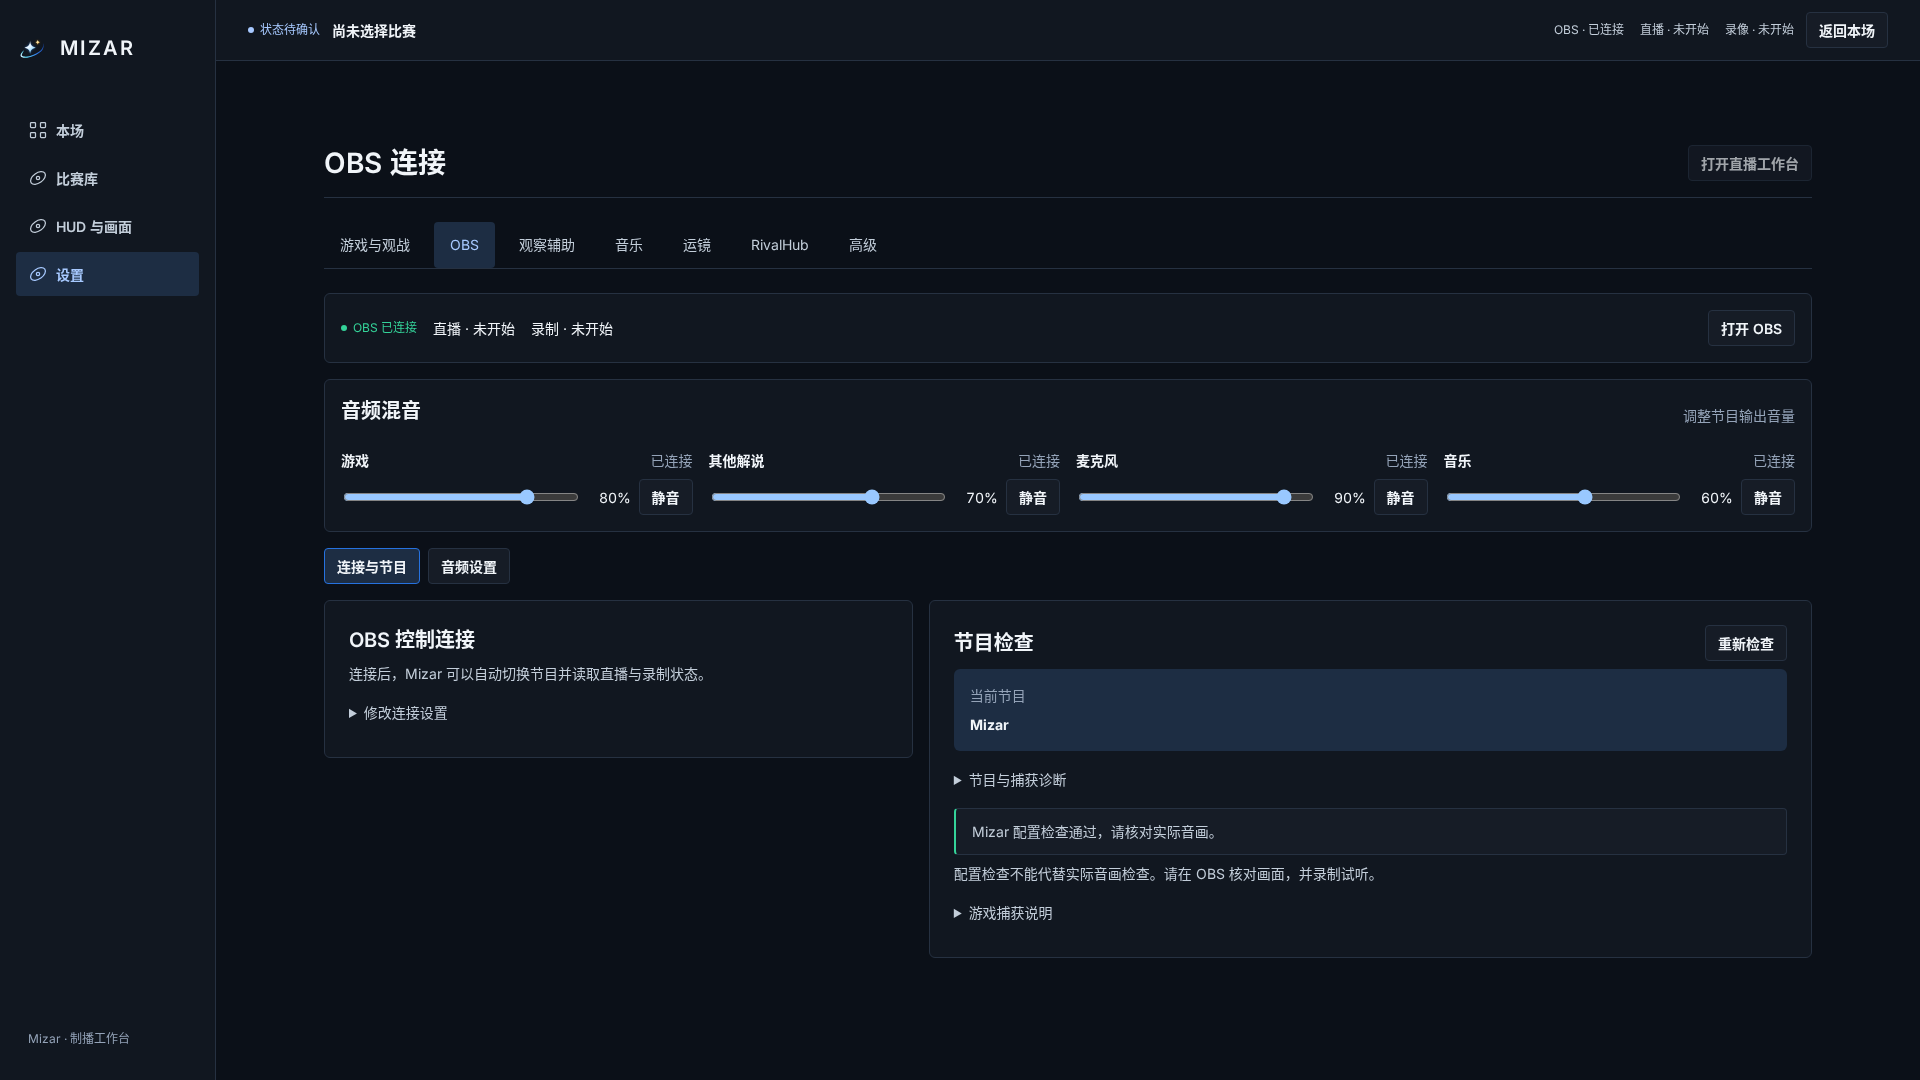
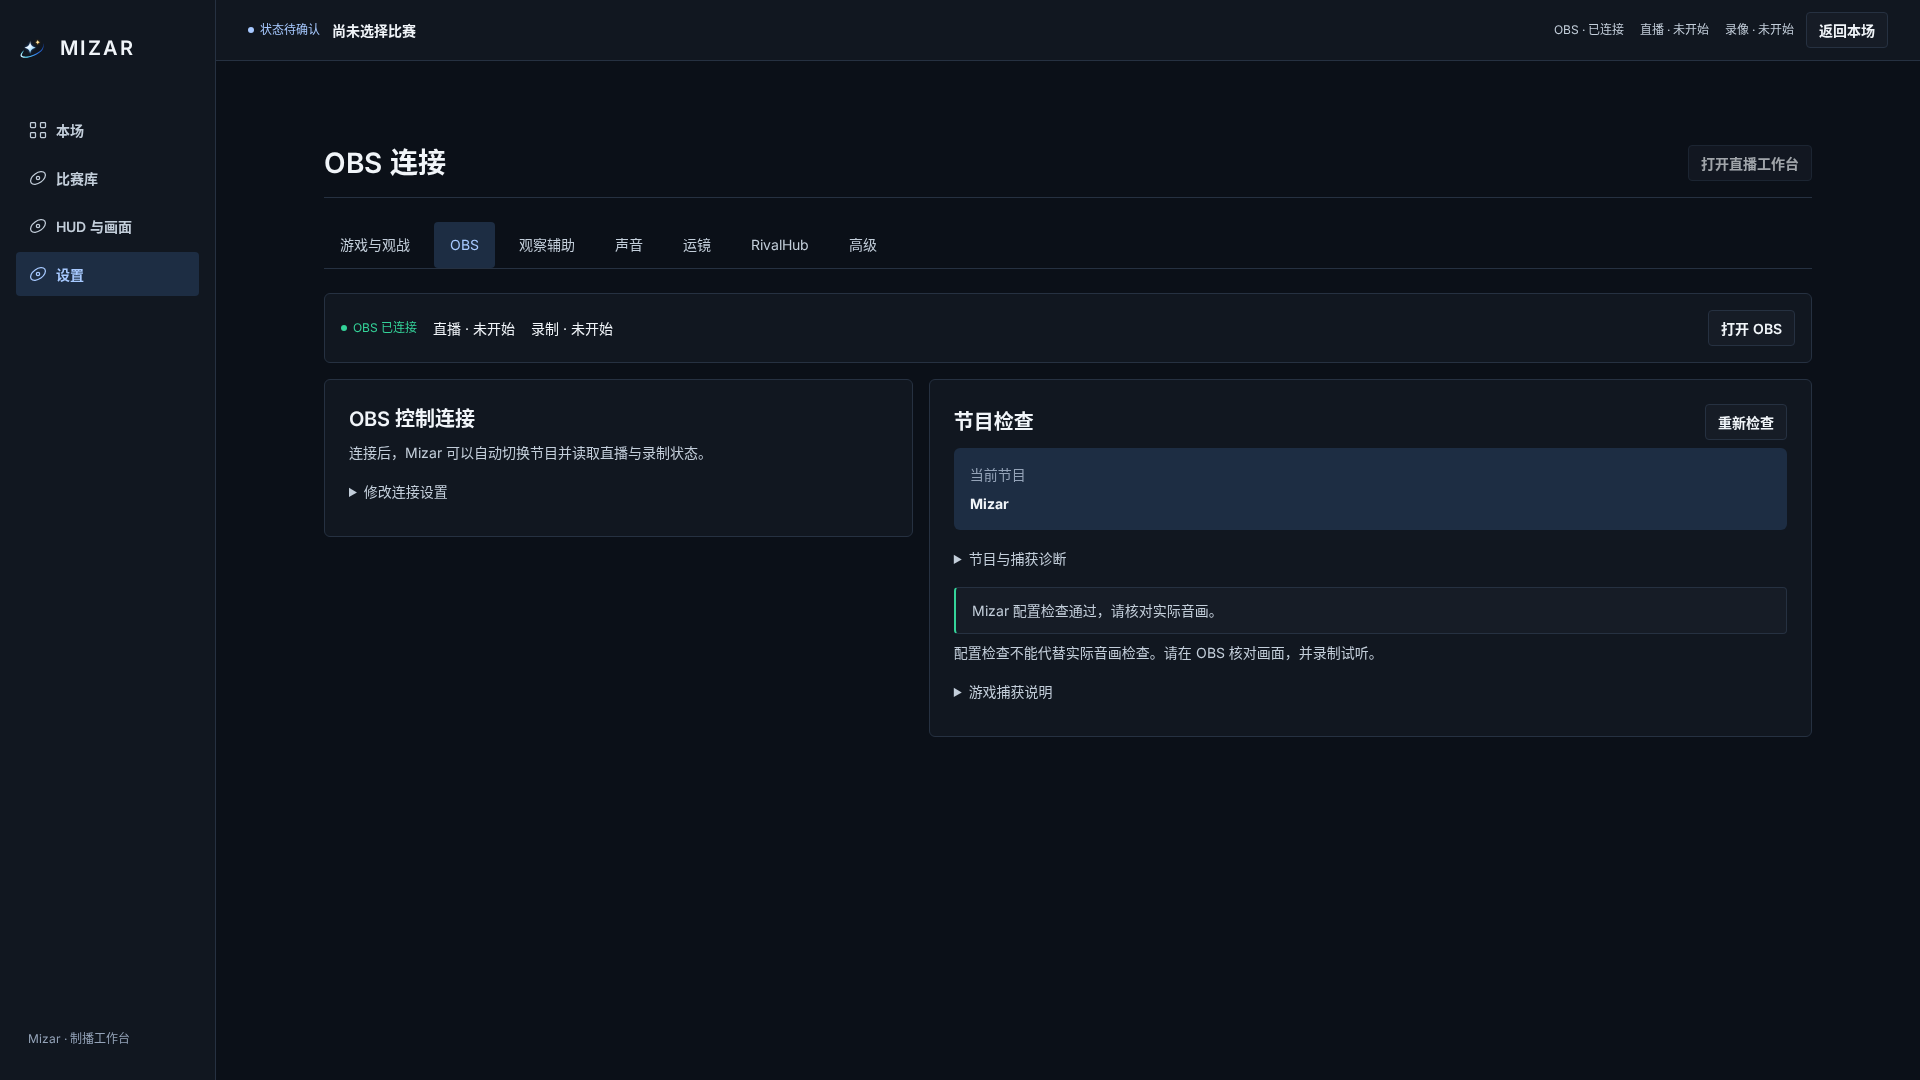
feat: 将混音与音频设置统一到声音页

diff --git a/apps/web/src/preparation/ObsSettings.tsx b/apps/web/src/preparation/ObsSettings.tsx
@@ -1,6 +1,3 @@
-import { Mixer } from '../audio/Mixer';
-import { ObsGameAudioPolicy } from './ObsGameAudioPolicy';
-import { ObsAudioRouting } from './ObsAudioRouting';
 import { prepareObs, useObsPreparation } from '../workspace/obs-preparation';
 import { useEffect, useRef, useState } from 'react';
 import type { ProgramSceneState } from '@mizar/protocol/program-scenes';
@@ -40,7 +37,6 @@ export function ObsSettings() {
   const [password, setPassword] = useState('');
   const [message, setMessage] = useState('');
   const [busy, setBusy] = useState(false);
-  const [section, setSection] = useState<'connection' | 'audio'>('connection');
   const [failed, setFailed] = useState(false);
   const configuration = useRef<ReturnType<typeof beginObsConfiguration> | null>(null);
   const latestConfiguration = useRef<ReturnType<typeof beginObsConfiguration> | null>(null);
@@ -94,20 +90,6 @@ export function ObsSettings() {
 
   const preparation = useObsPreparation();
   const preparing = preparation.phase === 'running';
-  const audioFindings =
-    obs?.findings.filter(
-      (item) => item.code.startsWith('audio_') || item.code === 'game_audio_missing',
-    ) ?? [];
-  const audioUnchecked = obs?.findings.some((item) =>
-    [
-      'collection_missing',
-      'collection_inactive',
-      'scene_missing',
-      'configuration_unchecked',
-      'configuration_check_failed',
-      'source_kind_conflict',
-    ].includes(item.code),
-  );
   const connected = obs?.connection === 'connected';
   const outputActive = connected && (obs.streaming || obs.recording);
   async function action(run: () => Promise<unknown>) {
@@ -174,16 +156,7 @@ export function ObsSettings() {
       {connected && outputActive && obs.findings.length > 0 ? (
         <StatusBanner tone="info">正在直播或录制，自动配置暂缓；停止输出后继续处理。</StatusBanner>
       ) : null}
-      <Mixer />
-      <nav className="obs-settings-tabs" aria-label="OBS 设置分区">
-        <Button aria-pressed={section === 'connection'} onClick={() => setSection('connection')}>
-          连接与节目
-        </Button>
-        <Button aria-pressed={section === 'audio'} onClick={() => setSection('audio')}>
-          音频设置
-        </Button>
-      </nav>
-      <div className="obs-settings-columns" hidden={section !== 'connection'}>
+      <div className="obs-settings-columns">
         <div className="obs-settings-column">
           <Panel className="settings-card">
             <h2>OBS 控制连接</h2>
@@ -439,54 +412,6 @@ export function ObsSettings() {
               若游戏捕获黑屏，检查 Steam 启动选项 -allow_third_party_software 。由 Mizar
               启动时已临时添加该选项；它可能影响信任系数。
             </p>
-          </details>
-        </Panel>
-      </div>
-      <div hidden={section !== 'audio'}>
-        <Panel className="settings-card">
-          <h2>音频配置</h2>
-          <ObsAudioRouting />
-          <ObsGameAudioPolicy />
-          <p>缺少来源时自动添加默认桌面音频与麦克风；已有音频来源会保留并检查。</p>
-          {!connected ? (
-            <p>连接后自动检查音频。</p>
-          ) : preparing ? (
-            <p>正在自动准备，请稍候。</p>
-          ) : audioUnchecked ? (
-            <p>等待场景准备完成后检查音频。</p>
-          ) : audioFindings.length ? (
-            audioFindings.map((finding) => (
-              <StatusBanner key={finding.code} tone="warning">
-                {finding.message}
-              </StatusBanner>
-            ))
-          ) : (
-            <p>音频配置检查通过。请在 OBS 核对实际设备、电平和输出音轨，并录制试听。</p>
-          )}
-          <details key={String(audioFindings.length > 0)} open={audioFindings.length > 0}>
-            <summary>{audioFindings.length ? '处理音频问题' : '音频维护'}</summary>
-            {outputActive ? <p>正在直播或录制，请停止输出后再添加来源。</p> : null}
-            <Button
-              disabled={
-                busy ||
-                preparing ||
-                obs?.connection !== 'connected' ||
-                obs.streaming ||
-                obs.recording
-              }
-              onClick={() =>
-                void action(async () => {
-                  await prepareObs();
-                  setMessage('已重新处理自动配置，请核对音频检查结果。');
-                })
-              }
-            >
-              重试音频自动配置
-            </Button>
-            <small>
-              已有自定义或游戏捕获音频时，不重复添加默认采集；请在 OBS
-              中处理具体设备、静音和音轨问题。
-            </small>
           </details>
         </Panel>
       </div>

diff --git a/apps/web/src/audio/SoundSettings.tsx b/apps/web/src/audio/SoundSettings.tsx
@@ -1,0 +1,108 @@
+import { useState } from 'react';
+import { MusicSettings } from '../music/MusicSettings';
+import { ObsAudioRouting } from '../preparation/ObsAudioRouting';
+import { ObsGameAudioPolicy } from '../preparation/ObsGameAudioPolicy';
+import { useObsPreparation, prepareObs } from '../workspace/obs-preparation';
+import { useObsStatus } from '../workspace/obs-client';
+import { Button, Panel, StatusBanner } from '../ui';
+import { Mixer } from './Mixer';
+
+type Section = 'music' | 'sources' | 'policy';
+export function SoundSettings() {
+  const [section, setSection] = useState<Section>('music');
+  const [busy, setBusy] = useState(false);
+  const [message, setMessage] = useState('');
+  const obs = useObsStatus();
+  const preparation = useObsPreparation();
+  const preparing = preparation.phase === 'running';
+  const connected = obs?.connection === 'connected';
+  const outputActive = connected && (obs.streaming || obs.recording);
+  const findings =
+    obs?.findings.filter(
+      (item) => item.code.startsWith('audio_') || item.code === 'game_audio_missing',
+    ) ?? [];
+  const unchecked = obs?.findings.some((item) =>
+    [
+      'collection_missing',
+      'collection_inactive',
+      'scene_missing',
+      'configuration_unchecked',
+      'configuration_check_failed',
+      'source_kind_conflict',
+    ].includes(item.code),
+  );
+  return (
+    <div className="sound-settings">
+      {outputActive && findings.length > 0 && (
+        <StatusBanner tone="info">正在直播或录制，自动配置暂缓；停止输出后继续处理。</StatusBanner>
+      )}
+      <Mixer />
+      <nav className="obs-settings-tabs" aria-label="声音设置分区">
+        {(
+          [
+            ['music', '音乐'],
+            ['sources', '音源'],
+            ['policy', '场景策略'],
+          ] as const
+        ).map(([id, label]) => (
+          <Button key={id} aria-pressed={section === id} onClick={() => setSection(id)}>
+            {label}
+          </Button>
+        ))}
+      </nav>
+      <div hidden={section !== 'music'}>
+        <MusicSettings />
+      </div>
+      <div hidden={section !== 'sources'}>
+        <Panel className="settings-card">
+          <h2>音源</h2>
+          <ObsAudioRouting />
+          <p>缺少来源时自动添加默认桌面音频与麦克风；已有音频来源会保留并检查。</p>
+          {!connected ? (
+            <p>连接后自动检查音频。</p>
+          ) : preparing ? (
+            <p>正在自动准备，请稍候。</p>
+          ) : unchecked ? (
+            <p>等待场景准备完成后检查音频。</p>
+          ) : findings.length ? (
+            findings.map((finding) => (
+              <StatusBanner key={finding.code} tone="warning">
+                {finding.message}
+              </StatusBanner>
+            ))
+          ) : (
+            <p>音频配置检查通过。请在 OBS 核对实际设备、电平和输出音轨，并录制试听。</p>
+          )}
+          <details key={String(findings.length > 0)} open={findings.length > 0}>
+            <summary>{findings.length ? '处理音频问题' : '音频维护'}</summary>
+            {outputActive && <p>正在直播或录制，请停止输出后再添加来源。</p>}
+            <Button
+              disabled={busy || preparing || !connected || outputActive}
+              onClick={() => {
+                setBusy(true);
+                setMessage('');
+                void prepareObs()
+                  .then(() => setMessage('已重新处理自动配置，请核对音频检查结果。'))
+                  .catch(() => setMessage('音频自动配置未完成，请检查 OBS。'))
+                  .finally(() => setBusy(false));
+              }}
+            >
+              重试音频自动配置
+            </Button>
+            <small>
+              已有自定义或游戏捕获音频时，不重复添加默认采集；请在 OBS
+              中处理具体设备、静音和音轨问题。
+            </small>
+            {message && <p role="status">{message}</p>}
+          </details>
+        </Panel>
+      </div>
+      <div hidden={section !== 'policy'}>
+        <Panel className="settings-card">
+          <h2>场景策略</h2>
+          <ObsGameAudioPolicy />
+        </Panel>
+      </div>
+    </div>
+  );
+}

diff --git a/tests/acceptance/obs-audio-routing.spec.ts b/tests/acceptance/obs-audio-routing.spec.ts
@@ -66,14 +66,15 @@ test('explicitly selects an OBS source and reports stale bindings', async ({ pag
     bound = true;
     return route.fulfill({ json: { ok: true } });
   });
-  await page.goto('/settings?tab=obs');
-  await page.getByRole('button', { name: '音频设置', exact: true }).click();
+  await page.goto('/settings?tab=music');
+  await page.getByRole('button', { name: '音源', exact: true }).click();
   await page.getByText('手动绑定与来源详情').click();
   await page.getByRole('button', { name: '刷新 OBS 音频来源' }).click();
   await expect(page.getByText(/当前 OBS：ws:/)).toBeVisible();
   await page.getByLabel('远端解说音频').selectOption(status.candidates[1]!.selectionId);
   await expect(page.getByText('已绑定：TeamSpeak 6')).toBeVisible();
   await expect(page.getByText(/桌面音频可能包含/)).toBeVisible();
+  await page.getByRole('button', { name: '场景策略', exact: true }).click();
   await page.getByLabel('中场策略').selectOption('attenuate');
   await page.getByRole('button', { name: '保存中场策略' }).click();
   await expect.poll(() => policy).toEqual({ mode: 'attenuate', db: 6 });
@@ -137,8 +138,8 @@ test('chooses another application, cancels, reselects and explicitly restores TS
       },
     }),
   );
-  await page.goto('/settings?tab=obs');
-  await page.getByRole('button', { name: '音频设置', exact: true }).click();
+  await page.goto('/settings?tab=music');
+  await page.getByRole('button', { name: '音源', exact: true }).click();
   await page.getByRole('button', { name: '选择其他应用' }).click();
   await page.getByLabel('应用窗口').selectOption(first);
   await page.getByRole('button', { name: '取消', exact: true }).click();
@@ -150,7 +151,7 @@ test('chooses another application, cancels, reselects and explicitly restores TS
   await expect(page.getByText(/等待所选应用启动/)).toBeVisible();
   expect(chosen).toBe(first);
   await page.reload();
-  await page.getByRole('button', { name: '音频设置', exact: true }).click();
+  await page.getByRole('button', { name: '音源', exact: true }).click();
   await expect(page.getByText('当前：已选择应用：Voice One')).toBeVisible();
   await page.getByRole('button', { name: '选择其他应用' }).click();
   await page.getByLabel('应用窗口').selectOption(second);

diff --git a/tests/acceptance/mixer-ui.spec.ts b/tests/acceptance/mixer-ui.spec.ts
@@ -79,7 +79,7 @@ test('mixer uses confirmed state and music gains stay local to their scene entry
     if (body.action === 'play') played = body;
     return route.fulfill({ json: { ok: true } });
   });
-  await page.goto('/settings?tab=obs');
+  await page.goto('/settings?tab=music');
   await expect(page.getByRole('slider', { name: '游戏音量' })).toBeEnabled();
   await page.getByRole('button', { name: '静音游戏' }).click();
   await expect(page.getByRole('button', { name: '取消静音游戏' })).toBeVisible();
@@ -108,6 +108,12 @@ test('mixer uses confirmed state and music gains stay local to their scene entry
     .first();
   await waiting.focus();
   await page.keyboard.press('ArrowRight');
+  await page.getByRole('button', { name: '音源', exact: true }).click();
+  await page
+    .getByRole('navigation', { name: '声音设置分区' })
+    .getByRole('button', { name: '音乐', exact: true })
+    .click();
+  await expect(waiting).toHaveValue('0.55');
   await page
     .getByRole('navigation', { name: '音乐场景' })
     .getByRole('button', { name: /技术暂停/ })

diff --git a/tests/acceptance/obs-preparation.spec.ts b/tests/acceptance/obs-preparation.spec.ts
@@ -59,9 +59,10 @@ test('first connection prepares scenes and audio without extra setup clicks, and
   await expect(page.getByText(/音频配置检查通过/)).toHaveCount(0);
   await page.screenshot({ path: testInfo.outputPath('02-preparing.png') });
   release!();
-  await page.getByRole('button', { name: '音频设置', exact: true }).click();
+  await page.goto('/settings?tab=music');
+  await page.getByRole('button', { name: '音源', exact: true }).click();
   await expect(page.getByText(/音频配置检查通过/)).toBeVisible();
-  await expect(page.getByLabel('WebSocket 密码', { exact: true })).not.toBeVisible();
+
   await page.screenshot({ path: testInfo.outputPath('03-ready.png') });
   expect(requests.filter((action) => ['repair', 'audio-setup'].includes(action))).toEqual([]);
 

diff --git a/apps/web/src/preparation/Settings.tsx b/apps/web/src/preparation/Settings.tsx
@@ -6,7 +6,7 @@ import {
   DiagnosticDeliverySettings,
   DiagnosticProblemReport,
 } from '../debug/DiagnosticDeliverySettings';
-import { MusicSettings } from '../music/MusicSettings';
+import { SoundSettings } from '../audio/SoundSettings';
 import { useCallback, useEffect, useRef, useState } from 'react';
 import { Button, Panel, StatusBanner, StatusPill } from '../ui';
 import { desktopInvoke } from '../workspace/client';
@@ -169,7 +169,7 @@ export function Settings({ tab }: { tab: string }) {
     </Button>
   );
   if (tab === 'observer') return <ObserverSettingsPanel />;
-  if (tab === 'music') return <MusicSettings />;
+  if (tab === 'music') return <SoundSettings />;
   if (tab === 'camera') return <CameraSettings />;
 
   return (

diff --git a/apps/web/src/audio/Mixer.tsx b/apps/web/src/audio/Mixer.tsx
@@ -116,7 +116,7 @@ export function Mixer({ musicOnly = false }: { musicOnly?: boolean }) {
                   {channel === 'music'
                     ? '请在音乐页核对 OBS，并使用“恢复自动音乐”。'
                     : channel === 'game'
-                      ? '请核对 OBS；中场让权时可在音频设置恢复自动控制。'
+                      ? '请核对 OBS；中场让权时可在场景策略恢复自动控制。'
                       : '请在 OBS 核对来源和音量。'}
                 </small>
               )}

diff --git a/apps/web/src/preparation/PreparationPage.tsx b/apps/web/src/preparation/PreparationPage.tsx
@@ -46,7 +46,7 @@ const tabs = {
     ['gsi', '游戏与观战'],
     ['obs', 'OBS'],
     ['observer', '观察辅助'],
-    ['music', '音乐'],
+    ['music', '声音'],
     ['camera', '运镜'],
     ['rivalhub', 'RivalHub'],
     ['advanced', '高级'],
@@ -165,7 +165,7 @@ export function PreparationPage() {
   const settingsTitle: Record<string, string> = {
     gsi: '游戏设置',
     obs: 'OBS 连接',
-    music: '音乐',
+    music: '声音',
     camera: '运镜',
     observer: '观察辅助',
     rivalhub: '赛事平台',

diff --git a/tests/acceptance/music.spec.ts b/tests/acceptance/music.spec.ts
@@ -65,7 +65,7 @@ test('saves real local choices, imports atomically, persists manual stop through
   );
   try {
     await page.goto('/settings?tab=music');
-    await expect(page.getByRole('heading', { name: '音乐', exact: true, level: 1 })).toBeVisible();
+    await expect(page.getByRole('heading', { name: '声音', exact: true, level: 1 })).toBeVisible();
     await expect(page.getByText('尚未选曲 · 静音', { exact: true })).toHaveCount(7);
     await page
       .getByLabel('选择本地曲目', { exact: true })

diff --git a/apps/web/src/preparation/preparation.css b/apps/web/src/preparation/preparation.css
@@ -1274,11 +1274,18 @@
   flex-wrap: wrap;
   gap: var(--mizar-layout-compact);
 }
-.obs-settings-tabs [aria-pressed='true'] {
+.sound-settings .obs-settings-tabs .mizar-button[aria-pressed='true'] {
   background: var(--mizar-bg-selected);
   border-color: var(--mizar-accent-primary);
 }
 .obs-settings-columns[hidden],
 .obs-settings > [hidden] {
+  display: none;
+}
+.sound-settings {
+  display: grid;
+  gap: var(--mizar-layout-padding);
+}
+.sound-settings > [hidden] {
   display: none;
 }

diff --git a/tests/acceptance/mixer-real-routes.spec.ts b/tests/acceptance/mixer-real-routes.spec.ts
@@ -63,7 +63,7 @@ test('browser uses real companion mixer routes and recovers after an OBS disconn
     });
   });
   try {
-    await page.goto('/settings?tab=obs');
+    await page.goto('/settings?tab=music');
     for (const [label, key] of [
       ['游戏', 'game'],
       ['其他解说', 'remoteCommentary'],

diff --git a/apps/web/src/music/MusicControls.tsx b/apps/web/src/music/MusicControls.tsx
@@ -212,7 +212,6 @@ export function MusicControls({
               : [],
           )}
         </Select>
-        {volume}
         <div className="music-player__monitor">
           <Button
             disabled={busy}
